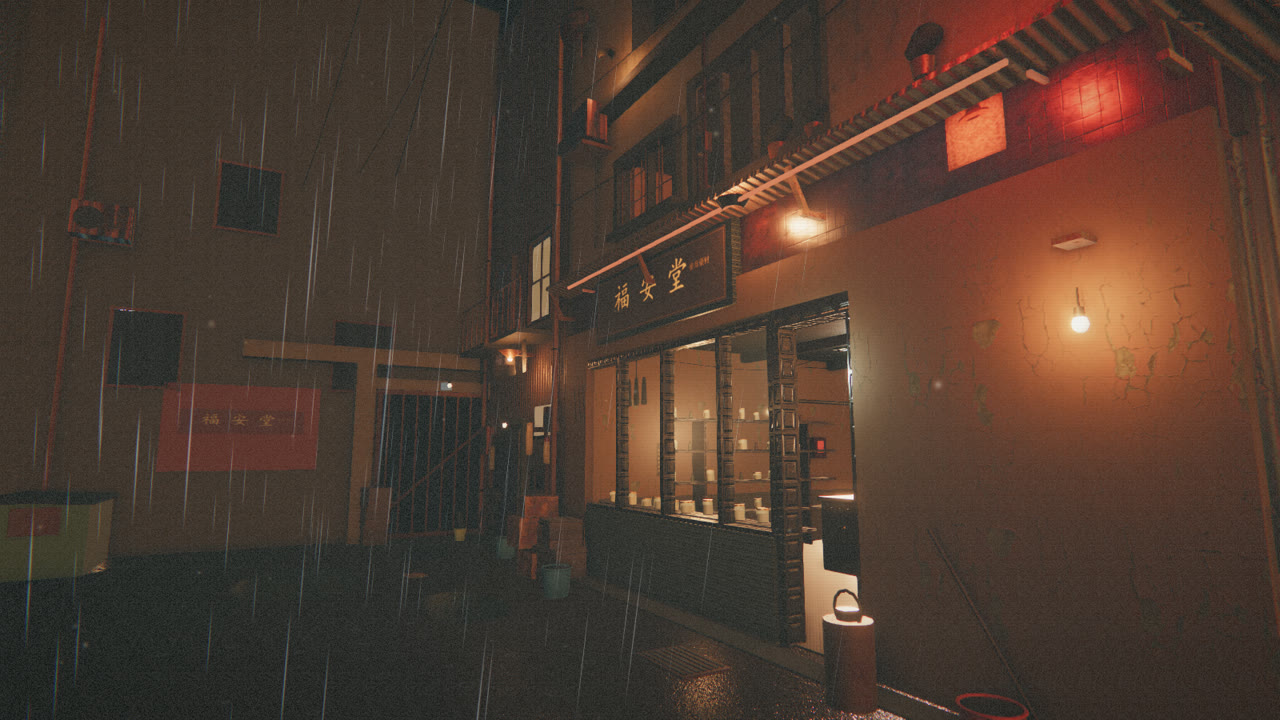
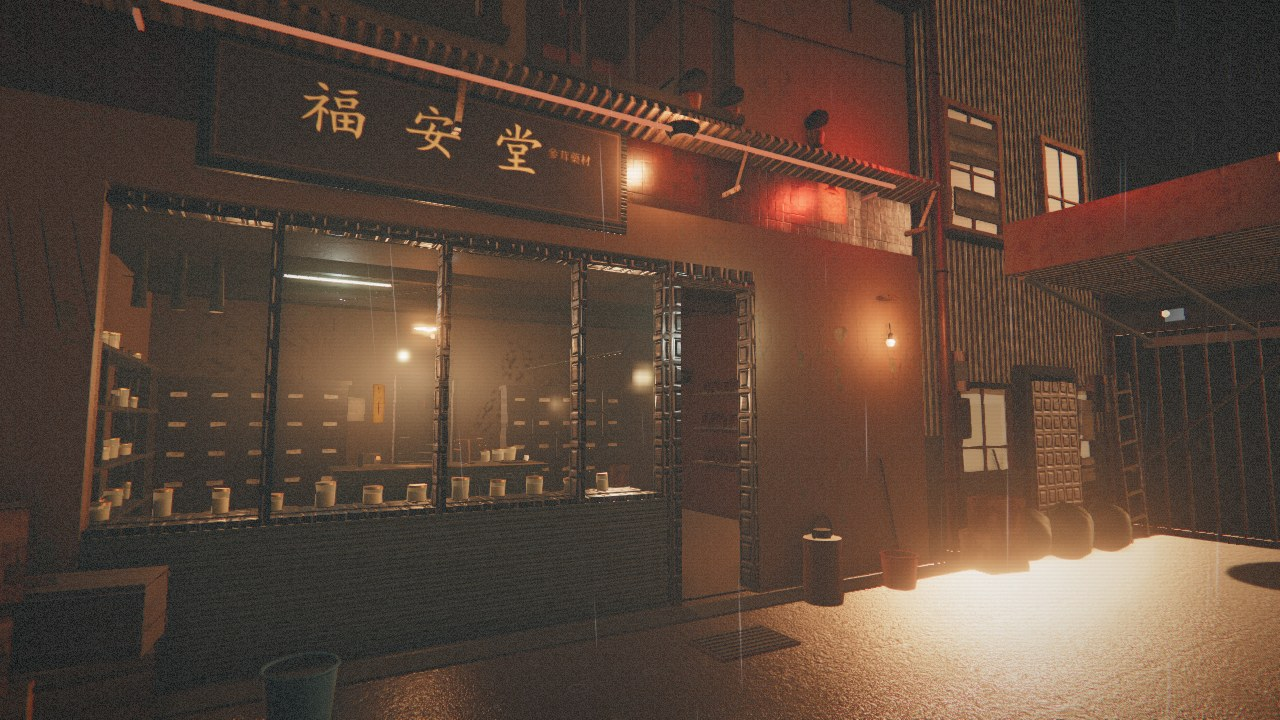
A：重新生成 SRC-MANIFEST（29 项全部对齐）；README 六张截图按当前构建重拍（后巷/药行/楼梯/客厅/睡房/浴室），更新日志补今日改动

diff --git a/README.md b/README.md
@@ -166,6 +166,15 @@ python tools/genart.py
 
 ## 更新日誌
 
+### 2026-11-06（下午 · 畫面與門）
+- **開局視角**：主選單背景同點擊「開始」後嘅機位完全一致（同一位置、朝向、1.62 m 視高），`startGame()` 直接接手選單相機姿態，切換零跳變
+- **藥行**：天花光霧收斂（燈泡 44→26、下移、自發光 2.4→1.45）；櫃檯由純黑提亮（0x40503f→0x59684f、roughness .68→.55）並加銅邊；藥屜標籤放大到 0.205×0.068 m，加 `emissiveMap` 微光，暗光下可讀
+- **後巷**：濕地高光收斂（roughness .24→.33、metalness .22→.12），右下白斑不再過曝；鐵皮雨棚補三根牆→外沿斜撐同牆板，唔再懸空
+- **樓梯**：踏步前緣由拋光金屬改啞光金屬條，唔再被燈泡打成白線
+- **牆面**：污漬／霉斑改受光材質（Standard + `emissiveMap` 0.3），貼圖邊緣羽化 30 px；每面牆隨機 UV 偏移，瓷磚／木板重複感下降
+- **浴室**：洗手盆改一體成型車削盆體（LatheGeometry）；龍頭按真實單柄鵝頸款重做（底座／柱身／彎管／出水嘴／起泡器／側柄／水柱）；燈管加磨砂罩並壓低自發光；修好牆角共面 z-fighting（牆面內移 4–6 mm）；刪掉穿牆小凳
+- **門**：四扇門正反面都有兩塊帶倒角凸起裝飾板 + 銅橫柄／圓座／鑰匙孔飾片，背面唔再係光板
+
 ### 2026-11-06
 - **浴室重建**：四面牆改為 12 cm 實體盒體（內側瓷磚、外側與全屋一致嘅灰泥），門洞／門框／門扇三者對齊；補回浴室後方死角，牆身拉直到天花
 - **入浴室卡頓**：光源預算漂移令 12 個 shader 重編譯（單幀 7.8 秒）→ 每房固定 14 點光 + 1 聚光、投影燈唯一化，換房零重編譯；鏡面反射預熱
